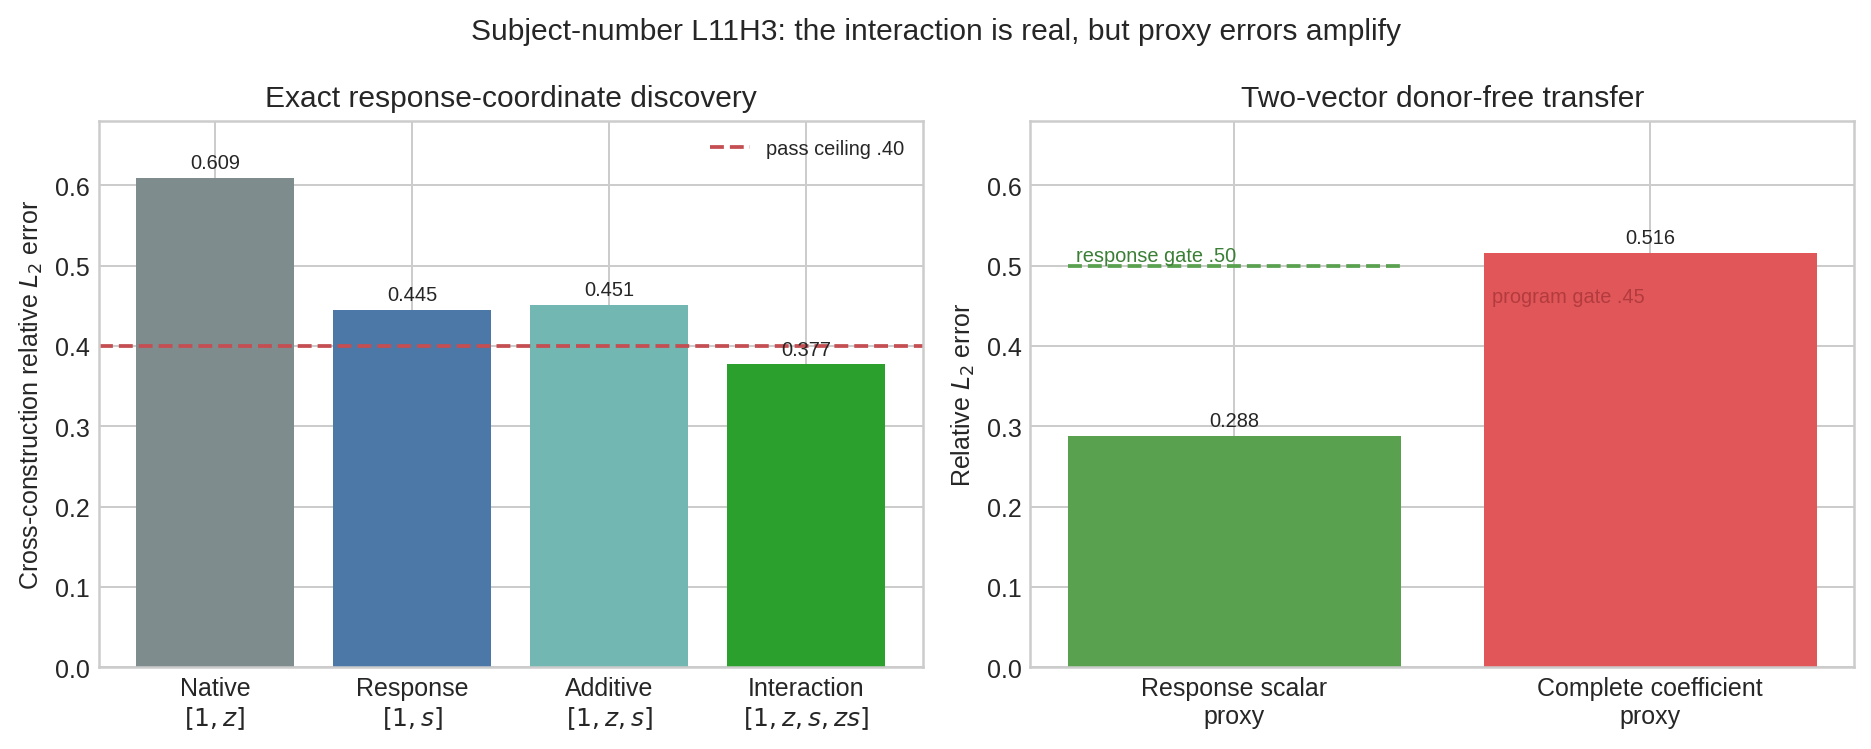
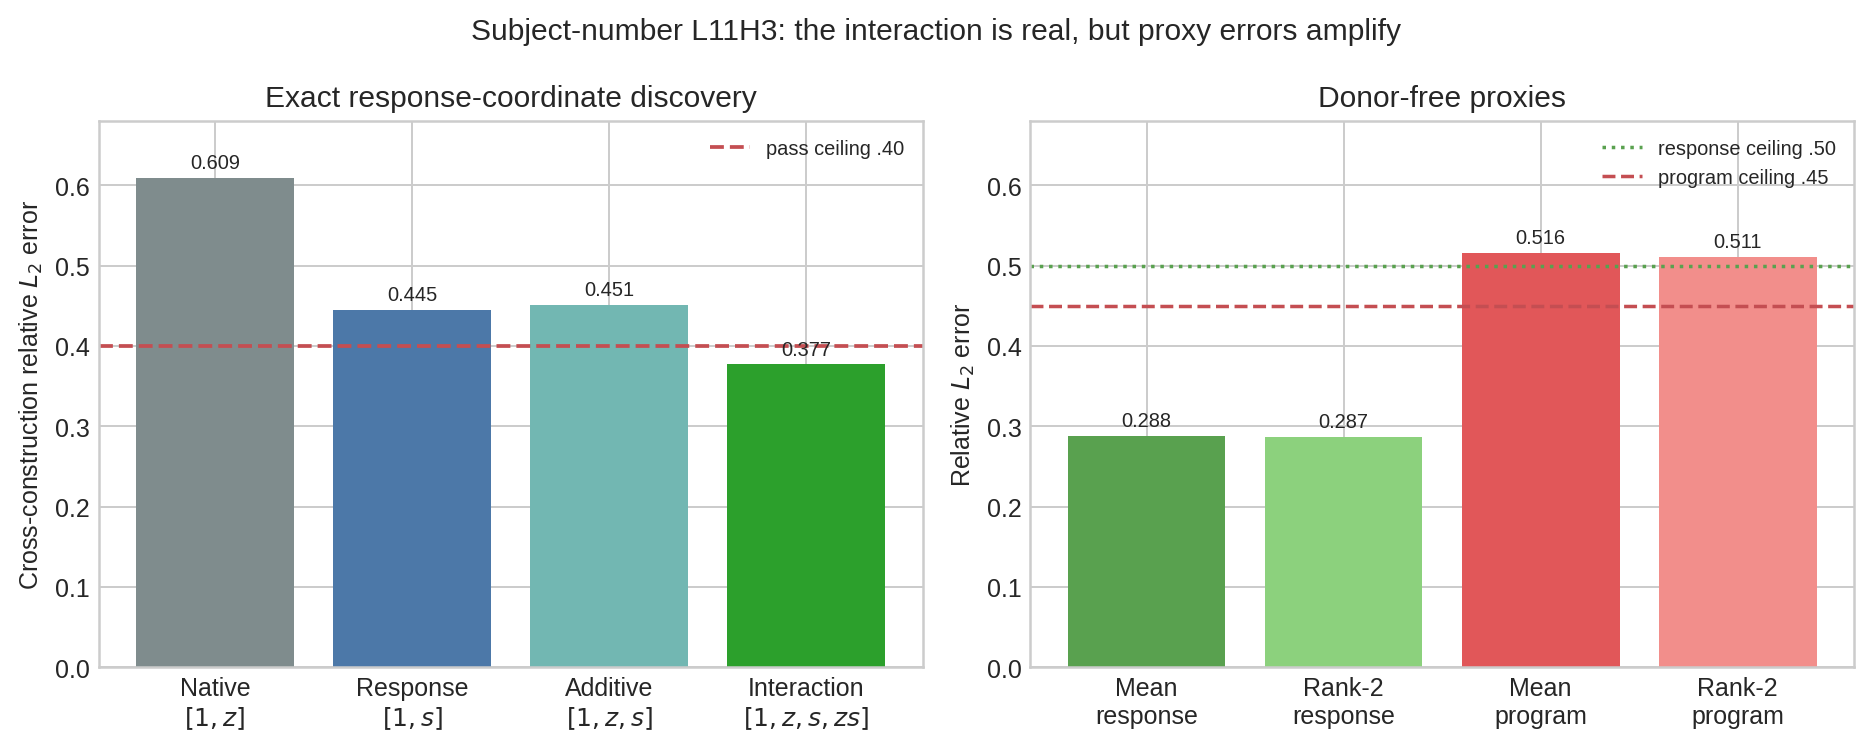
Add rank2 null to Logan response report

diff --git a/basis_aligned/polynomial_causal/explanations/for_logan/research_update_2026-09-15_0430_subject_response_interaction.md b/basis_aligned/polynomial_causal/explanations/for_logan/research_update_2026-09-15_0430_subject_response_interaction.md
@@ -19,6 +19,13 @@ A follow-up tried to remove the row-specific opposite-number donor. It averaged 
 
 So the interaction is a positive localization result, while the simplest donor-free realization is a valid null. The next circuit step is a vector-valued recipient-side predictive state. We will not turn the two-vector proxy into a lexical or background lookup table. The next weight-folding step remains the independent regional path: split head9.8 QK1's dominant carry×carry interaction into embedding and layer-0–7 self/cross terms.
 
+A frozen rank-2 version of that recipient-state idea has now also returned a null.
+It predicts two grouped MLP6/7 displacement modes from two recipient-state PCs, but
+improves response error only `.28804→.28722` and coefficient error only
+`.51585→.51072`. This closes ordinary activation/displacement PCA on these opened
+rows. A future circuit coordinate must be selected by the head-response operator,
+not by activation energy.
+
 ![Prediction errors for the response interaction and donor-free proxy](assets/research_update_2026-09-15_subject_response_interaction.png)
 
 *Figure 1. Lower is better. Left: only the exact multiplicative response model passes the `.40` coefficient-error ceiling. Right: the two-vector proxy passes its response-scalar gate but fails after composition into the coefficient program.*
@@ -95,11 +102,32 @@ $$
 
 The proxy coefficient improves by `.09346` over the native baseline, below the `.10` gate, and loses `.13896` relative to the exact-response oracle, above the `.10` degradation gate. This is a useful distinction: a compressed intermediate variable can transfer well while still being too inaccurate after a high-gain interaction.
 
+## Rank-2 recipient-state test
+
+The next assay retained the grouped MLP6/7 source but added two recipient-state
+coordinates. On each training construction and answer direction, it took the top
+two principal directions $V_x$ of the recipient MLP8 input and the top two directions
+$V_\delta$ of the grouped source displacement. A fixed $2\times2$ ridge map predicted
+displacement scores:
+
+$$
+r_b=(x_b-\bar x)V_x,
+\qquad
+\widehat\delta_b=\bar\delta+r_bA V_\delta^\top.
+$$
+
+The four fold/direction maps retained `.366–.432` of recipient-state energy and
+`.491–.539` of displacement energy. Despite that extra state, the response error
+fell by only `.00083`, far below the preregistered `.05` improvement. The complete
+coefficient error remained `.51072`; its native-baseline improvement was `.09859`
+and its oracle degradation was `.13383`, missing the `.10` gates on both sides.
+The result argues against choosing the next basis by activation variance.
+
 ## What is established
 
 The missing subject-number amplitude is partly organized by a specific interaction at the L11H3 interface. The evidence is cross-construction, outcome-blind, and uses a native weight axis. The exact response variable remains donor-dependent, so this does not yet explain how a normal forward pass computes the amplitude.
 
-The two-vector proxy shows that much of the MLP6/7 response is shared across lexical rows. It is not accurate enough for the complete coefficient program. The registered rule closes lexical- and background-specific prototype expansion; the next representation must preserve more recipient-side state in a compact vector and earn fresh causal substitution.
+The two-vector proxy shows that much of the MLP6/7 response is shared across lexical rows. It is not accurate enough for the complete coefficient program. Rank-2 activation/displacement PCA adds negligible useful information. The registered rules close lexical/background prototype expansion and activation-rank sweeps on this authority; the next representation must use response-oriented coordinates and earn fresh causal substitution.
 
 ## Appendix: experiment details
 
@@ -138,6 +166,17 @@ The discovery performed ordinary least squares with `numpy.linalg.lstsq` and no 
 
 The donor-free test made zero fits. It froze each fold's interaction coefficients from discovery and constructed four direction prototypes total. Its response gates were cosine $\geq .85$ and relative $L_2\leq .50$. Its program gates were relative $L_2\leq .45$, improvement over native $\geq .10$, and degradation from exact response $\leq .10$.
 
+The rank-2 assay fit four upstream predictive maps, one per construction fold and
+answer direction. Each used 128 training background examples, two recipient PCs,
+two displacement PCs, and ridge
+
+$$
+\lambda=10^{-3}\frac{\operatorname{tr}(R^\top R)}{2}.
+$$
+
+There was no rank sweep and no coefficient refit. It used one physical forward,
+96 role sequences, and 2,048 offline head-function evaluations.
+
 Discovery used one physical model forward over 96 role sequences and 1,024 row-wise offline head evaluations. The proxy test used one physical forward, 96 role sequences, 1,536 offline head evaluations, and four stored 1,152-dimensional prototypes. Both used native float32 model states, exact registered algebra, no answer logits, no behavioral effects, no downstream causal outcomes, no backward passes, no updates, and no quantization. State and normalized-state closures were exactly zero.
 
 The first discovery runner failed before scientific output because it read a dtype from a component dictionary. The corrected runner changed only the dtype source. The first proxy receipt was implementation-invalid because construction-sliced float32 aggregation differed from the parent metric by $3.24\times10^{-9}$ against an unnecessarily tight $10^{-10}$ audit. The corrected $10^{-8}$ audit remains far below the project closure tolerance; all scientific gates were unchanged.
@@ -151,5 +190,7 @@ The first discovery runner failed before scientific output because it read a dty
 - [Donor-free proxy correction](../../SUBJECT_NUMBER_DONOR_FREE_HEAD_RESPONSE_PROXY_V2_CORRECTION.md)
 - [Donor-free proxy runner](../../../bilinear_quotient/ops/run_subject_number_donor_free_head_response_proxy_v2.py)
 - [Donor-free proxy result](../../../bilinear_quotient/circuits/fast_screens/subject_number_donor_free_head_response_proxy_v2_result.json)
+- [Rank-2 recipient-state preregistration](../../SUBJECT_NUMBER_RANK2_RECIPIENT_STATE_RESPONSE_PROXY_V1_PREREGISTRATION.md)
+- [Rank-2 recipient-state result](../../../bilinear_quotient/circuits/fast_screens/subject_number_rank2_recipient_state_response_proxy_v2_result.json)
 - [Computation-path registry](../../../bilinear_quotient/COMPUTATION_PATH_REGISTRY.md)
 - [L11H3 module dossier](../../../bilinear_quotient/circuits/MODULE_DOSSIERS.md)
